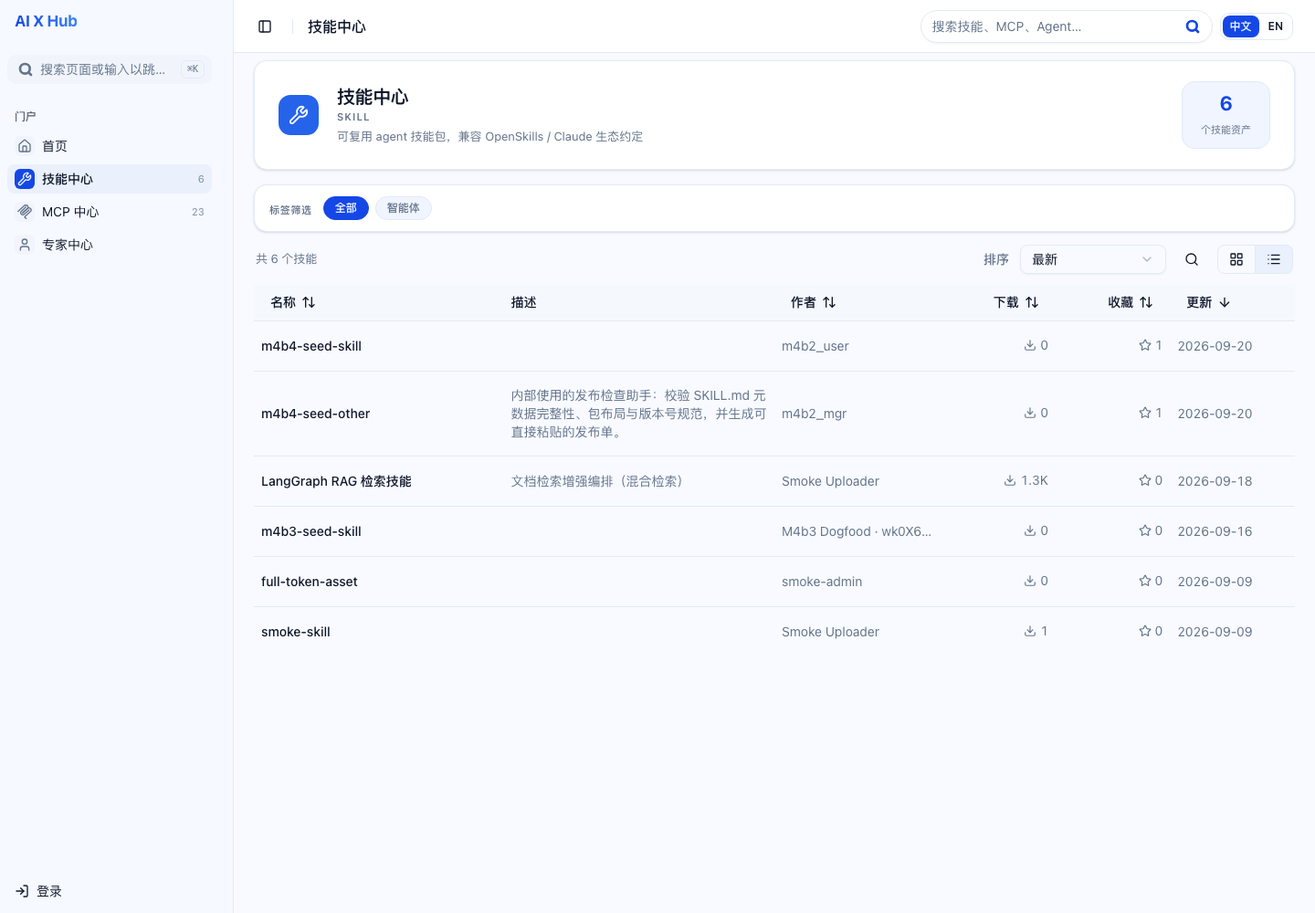
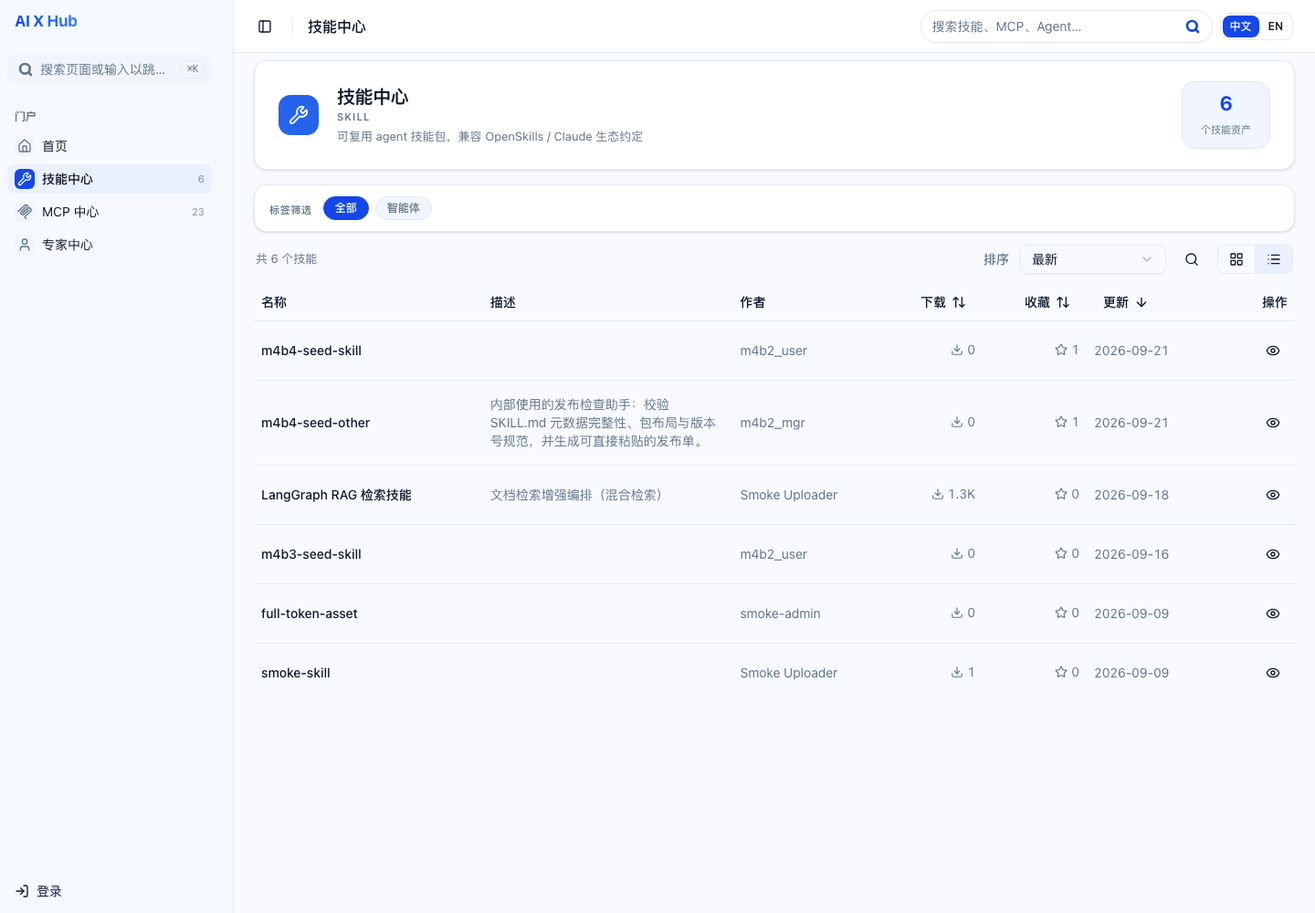
test(smoke): 表格族统一 j5 —— dogfood 断言改写 + 门户笔收口（T11-j）
- m4b4 dogfood 断言改写（1528 → 1546）：
  G20-3 真值口径（恰 1 个进详情锚点 / 0 个 button —— Button asChild 渲染为 <a>）
  G20-4 6 → 7 格（列头加「操作」· 名称列改纯文本断言 · 链接断言挪 tds[6]）
  新增 G20-10（点操作钮 ⇒ 真跳 /assets/:slug）
  G22-3 四档 → 两档 · G22-6 整条删除（同列两态由 G22-6c 承载）· G22-7 五列 → 三列
  G6 锚点改本批前缀（按 /assets/m4b4-seed- 计数 —— 隔离 m4b3 跨批夹具 · F119）
- 首跑 85 PASS / 4 FAIL 如实留痕：F119（跨批夹具污染）+ F120（删 G22-6 的 setup 副作用）
  修完复跑：m4b4 89 PASS / 0 FAIL（89 = 91 − 1 + 1 − 2 逐项对上）
- 零回归：m4a 60 PASS / 0 FAIL / exit 0 · m4b3 39 PASS / 0 FAIL
- 门禁：CI 同序八步全绿（test 559 pass / 1 skip / 0 fail · protocol 27 pass）
- 证据：docs/smoke/2026-09-18-m4b4-personal-b.md → 612 行（活口径 5 处订正 + 新增 §14.15 T11-j 块）+ 11 张截图重拍
- 文档：design v1.16（F-19 + 重评 9.38）· plan v0.45（j5 落地记录 · 代码 9.49）· docs/00 v1.86（§5 M4b-4 行 + §8 修订行）

门户笔（T11-j：j1–j5）全绿收口。

diff --git a/docs/smoke/scripts/m4b4-personal-b-dogfood.ts b/docs/smoke/scripts/m4b4-personal-b-dogfood.ts
@@ -604,6 +604,7 @@ if (want('G10', 'G4', 'G5', 'G6', 'G7', 'G9')) {
       typeColorBlocks: number;
       chips: string[];
       hrefs: string[];
+      ownRows: number;
     }>(
       await evalJs(`(() => {
       const c = ${CONTENT};
@@ -617,6 +618,12 @@ if (want('G10', 'G4', 'G5', 'G6', 'G7', 'G9')) {
           .filter((s) => (s.getAttribute('class') ?? '').includes('rounded-full'))
           .map((s) => s.innerText.trim()),
         hrefs: [...c.querySelectorAll('tbody tr a[href^="/assets/"]')].map((a) => a.getAttribute('href')),
+        /** 本批夹具行数（T11-j j5 · F119）：按行内操作列 href 前缀锚定 —— 不按全表行数断言（跨批夹具共存时必假红） */
+        ownRows: [...c.querySelectorAll('tbody tr')].filter((tr) =>
+          (tr.querySelector('a[href^="/assets/"]')?.getAttribute('href') ?? '').startsWith(
+            '/assets/m4b4-seed-',
+          ),
+        ).length,
       });
     })()`),
     );
@@ -626,12 +633,12 @@ if (want('G10', 'G4', 'G5', 'G6', 'G7', 'G9')) {
       snap?.heads.join(',') ?? 'n/a',
     );
     ok(
-      'G6 三态各一行（ACTIVE/HIDDEN/ARCHIVED）',
-      snap?.rows === 3 &&
+      'G6 本批三态各一行（ACTIVE/HIDDEN/ARCHIVED · 按本批 `m4b4-seed-` 前缀锚定）',
+      snap?.ownRows === 3 &&
         snap.body.includes('活跃') &&
         snap.body.includes('已隐藏') &&
         snap.body.includes('已归档'),
-      `rows=${snap?.rows ?? 'n/a'}`,
+      `ownRows=${snap?.ownRows ?? 'n/a'} · 全表 rows=${snap?.rows ?? 'n/a'}`,
     );
     ok(
       'G6 类型列无色（反证：无 bg-type-* 色块）',
@@ -993,12 +1000,16 @@ if (want('G20')) {
     const rows = [...document.querySelectorAll('[data-asset-row]')];
     let rowButtons = 0;
     for (const r of rows) rowButtons += r.querySelectorAll('button').length;
+    /** 行内进详情锚点数（T11-j j5：操作列 = 真链接；Button asChild 渲染为 a 而非 button） */
+    let rowAnchors = 0;
+    for (const r of rows) rowAnchors += r.querySelectorAll('a[href^="/assets/"]').length;
     return JSON.stringify({
       toggleCount: btns.length,
       on: btns.filter((b) => b.getAttribute('data-state') === 'on').map((b) => b.getAttribute('aria-label')),
       grid: document.querySelector('div.grid.grid-cols-4') !== null,
       rows: rows.length,
       rowButtons,
+      rowAnchors,
       rowHeight: rows[0] ? Math.round(rows[0].getBoundingClientRect().height) : null,
       pagination: document.querySelector('nav[aria-label="pagination"]') !== null,
       url: location.pathname + location.search,
@@ -1010,6 +1021,7 @@ if (want('G20')) {
       grid: boolean;
       rows: number;
       rowButtons: number;
+      rowAnchors: number;
       rowHeight: number | null;
       pagination: boolean;
       url: string;
@@ -1038,31 +1050,34 @@ if (want('G20')) {
     await sleep(1600);
     const s2 = await viewState();
     ok(
-      'G20-3 列表形态：20 行（= limit）· 行高 ≥55（单行描述 55；描述最多 3 行时更高）· 行内 **0 button**（下载/收藏纯展示口径不破）',
+      'G20-3 列表形态：20 行（= limit）· 行高 ≥55 · 行内**恰 1 个进详情入口**（`a[href^="/assets/"]`）且 **0 个 `button`**（下载/收藏纯展示口径不破 —— T11-j 起进详情入口 = 操作列真链接）',
       s2?.on.length === 1 &&
         s2.on[0] === '列表视图' &&
         !s2.grid &&
         s2.rows === 20 &&
         (s2.rowHeight ?? 0) >= 55 &&
+        s2.rowAnchors === 20 &&
         s2.rowButtons === 0,
       JSON.stringify(s2),
     );
     ok(
-      'G20-4 表头 **6 列**（名称/描述/作者/下载/收藏/**更新**）+ 行内六格字段齐（名称链接 · 描述 · 作者 · 两枚 stat · 更新时间 `YYYY-MM-DD`）',
+      'G20-4 表头 **7 列**（名称/描述/作者/下载/收藏/更新/**操作**）+ 字段齐（**名称纯文本** · 描述 · 作者 · 两枚 stat · `YYYY-MM-DD` · 末格真链接）',
       (await evalJs(`(() => {
       const heads = [...document.querySelectorAll('thead th')].map((h) => h.innerText.trim()).join('|');
       const row = document.querySelector('[data-asset-row]');
       if (!row) return false;
       const tds = [...row.querySelectorAll('td')];
-      if (tds.length !== 6) return false;
+      if (tds.length !== 7) return false;
       return (
-        heads === '名称|描述|作者|下载|收藏|更新' &&
-        tds[0].querySelector('a[href^="/assets/"]') !== null &&
+        heads === '名称|描述|作者|下载|收藏|更新|操作' &&
+        (tds[0].innerText || '').length > 0 &&
+        tds[0].querySelector('a') === null &&
         (tds[1].innerText || '').length > 0 &&
         (tds[2].innerText || '').includes('m4b2_mgr') &&
         tds[3].querySelector('span.tabular-nums') !== null &&
         tds[4].querySelector('span.tabular-nums') !== null &&
-        /^\\d{4}-\\d{2}-\\d{2}$/.test((tds[5].innerText || '').trim())
+        /^\\d{4}-\\d{2}-\\d{2}$/.test((tds[5].innerText || '').trim()) &&
+        tds[6].querySelector('a[href^="/assets/"]') !== null
       );
     })()`)) === true,
     );
@@ -1131,6 +1146,22 @@ if (want('G20')) {
       JSON.stringify(s5),
     );
     await shot('20-skills-list-view-anon');
+
+    // G20-10 操作列真链接（T11-j j5 新增）：点 ⇒ 真跳 `/assets/:slug`（真指针路径）
+    const opHref = (await evalJs(`(() => {
+    const a = document.querySelector('[data-asset-row] a[href^="/assets/"]');
+    if (!a) return null;
+    const href = a.getAttribute('href');
+    a.click();
+    return href;
+  })()`)) as string | null;
+    await sleep(1800);
+    const opPath = (await evalJs('location.pathname + location.search')) as string;
+    ok(
+      'G20-10 操作列 = **真链接**：点行内操作钮 ⇒ `pathname` = `/assets/:slug`（列表 ↔ 详情零中间态 · D6）',
+      typeof opHref === 'string' && opHref.startsWith('/assets/') && opPath.startsWith('/assets/'),
+      `href=${opHref} → pathname=${opPath}`,
+    );
   }
 }
 
@@ -1354,11 +1385,10 @@ if (want('G22')) {
     );
 
     // G22-3 四档逐档：Select 显示 + URL 写入 + 列表序与接口**逐项一致**
+    // T11-j j3 收敛（D0-8）：`名称` / `作者` 两档下线 ⇒ 由四档降为**两档**（白名单 = `SORT_OPTIONS`）
     for (const [label, key] of [
       ['下载量', 'downloads'],
       ['星标数', 'stars'],
-      ['名称', 'name'],
-      ['作者', 'author'],
     ] as const) {
       const picked = await selectSort(label);
       const u = await curUrl();
@@ -1396,25 +1426,15 @@ if (want('G22')) {
     );
     await shot('25-sort-bogus-fallback');
 
-    // G22-6 列头两态（切列表视图）：同列切换 asc → desc
-    await nav(`${APP}/skills?sort=name&dir=asc`, 3000);
-    await evalJs(CLICK_VIEW('列表视图'));
-    await sleep(1600);
-    const ascState = (await evalJs(HEAD_SORT('名称'))) as string;
-    await evalJs(CLICK_HEAD('名称'));
-    await sleep(1900);
-    const descState = (await evalJs(HEAD_SORT('名称'))) as string;
-    const descUrl = await curUrl();
-    ok(
-      'G22-6 列头两态：`?dir=asc` ⇒ 名称列 `aria-sort=ascending`；**点同列** ⇒ `descending` + URL `dir=desc`',
-      ascState === 'ascending' &&
-        descState === 'descending' &&
-        descUrl === '/skills?sort=name&dir=desc',
-      `${ascState} → ${descState} · ${descUrl}`,
-    );
-    await shot('26-sort-header-desc');
+    // ⚠ 原 G22-6（名称列两态）随 T11-j j3 **整条删除** —— 该档已下线；
+    //    同列反向的两态语义由 **G22-6c**（更新列 desc→asc→desc）完整承载 ⇒ 覆盖不降（design §7.1 第 6 项）。
+    //    「异列首点 desc」由 G22-6b 承载。原截图 `26-sort-header-desc` 不再产出（证据件已同步）。
 
     // G22-6b 点异列 ⇒ 首点 `desc`（F84 订正口径）
+    // ⚠ 前置：切到**列表视图**（原由 G22-6 的导航顺带完成；该条随 j3 删除后本处自补 —— 否则无 thead 可比）
+    await nav(`${APP}/skills`, 3000);
+    await evalJs(CLICK_VIEW('列表视图'));
+    await sleep(1600);
     await evalJs(CLICK_HEAD('下载'));
     await sleep(1900);
     const dlState = (await evalJs(HEAD_SORT('下载'))) as string;
@@ -1429,17 +1449,15 @@ if (want('G22')) {
       `${dlUrl} · ${dlState}`,
     );
 
-    // G22-7 描述列不可点（五列可点 = 名称/作者/下载/收藏/更新）
+    // G22-7 列头可点（T11-j j3 起三列 = 下载/收藏/更新；描述 · 名称 · 作者不可点）
     const thMap = (await evalJs(
       `JSON.stringify([...document.querySelectorAll('th')].map((x) => ((x.textContent || '').trim() + ':' + (x.querySelector('button') ? 'btn' : 'text'))))`,
     )) as string;
     ok(
-      'G22-7 列头可点 = 名称 / 作者 / 下载 / 收藏 / **更新** 五列（**描述列不可点**）',
-      thMap.includes('描述:text') &&
-        !thMap.includes('描述:btn') &&
-        ['名称:btn', '作者:btn', '下载:btn', '收藏:btn', '更新:btn'].every((s) =>
-          thMap.includes(s),
-        ),
+      'G22-7 列头可点 = 下载 / 收藏 / **更新** 三列（**描述 · 名称 · 作者**三列不可点 —— T11-j j3 档收敛）',
+      ['描述:text', '名称:text', '作者:text'].every((s) => thMap.includes(s)) &&
+        ['描述:btn', '名称:btn', '作者:btn'].every((s) => !thMap.includes(s)) &&
+        ['下载:btn', '收藏:btn', '更新:btn'].every((s) => thMap.includes(s)),
       thMap,
     );
 

diff --git a/docs/designs/2026-09-21-table-family-alignment-design.md b/docs/designs/2026-09-21-table-family-alignment-design.md
@@ -1,11 +1,11 @@
 # 表格族统一规格与统一件契约 —— 跨批设计
 
 > Date: 2026-09-21
+> Updated: 2026-09-21（**v1.16：`j5` 门户笔收口** —— ① 断言改写实测：`m4b4` **89 PASS / 0 FAIL** · `m4a` **60/0** 零回归 · `m4b3` **39/0** ② 计数实测回填（`G20 ×11` · `G22 ×11` · **89 = 91 − 1 + 1 − 2** 逐项对上）③ **F-19**：`m4b4` `G6` 按**全表行数**断言 ⇒ 被 `m4b3` **跨批夹具**污染（真值 5）⇒ 改**本批前缀锚定**（`m4b4-seed-`）④ §8 脚本行数实测 **1546** ⑤ 重评 **9.38**（7 维 9.53 − 0.15）⇒ **门户笔（T11-j）设计侧收口**）
 > Updated: 2026-09-21（**v1.15：`j4` 索引迁移落地回填** —— ① schema **+3 部分索引** · 生成 **`0013_good_wolverine.sql`** · `\d asset` 实测 **6 条** · 二次 migrate 幂等 ② **迁移前实测**（20 万行 · 残留 0）：三档 **8.666/7.944/9.013 → 0.020/0.030/0.030 ms**（≈265–433×）· **B5 闭合**（`status+type` → 0.016 ms 前缀命中）· **B3 回填**（owner+ALL **不受益**）· 建索引 **93.1 ms** ③ 三条新发现：**F-16**（实验须自证数据入表 —— int4 溢出致空表假象）· **F-17**（小表 `Seq Scan` 是自由选择 ⇒ 断言改「关 seqscan 反证」）· **F-18**（`j3` 连带陈旧引用）④ 重评 **9.35**（7 维 9.50 − 0.15））
 > Updated: 2026-09-21（**v1.14：`j3` 排序档收敛 5 → 3 落地回填** —— ① 服务端三处收敛（白名单 / 固有方向 / `sortOrderBy` 删两 case ⇒ **两条相关子查询消失**）· 前端 `SORT_OPTIONS` + `SORT_LABEL_KEYS` 同步 · i18n **净零**（**347 键** 实测、差集 0）② 测试 **动 4 用例** + **F-15**（`assets.test.ts:485` 清单 **7 → 4** —— 设计清单外的活口径，靠 grep「五档」捞出）③ 实测：三档序 / `?sort=name` 回落 / `dir` 两态 / **CI 同序七步全绿**（`test` **559 pass · 0 fail**，562 → 559 = −3 与被删用例对上）④ 重评 **9.33**（7 维 9.48 − 0.15））
-> Updated: 2026-09-21（**v1.13：`j2` 门户 preset 收敛落地后回填 + 三条新发现** —— ① 门户 preset 实测 **286 → 172 行**，`AssetListRow`/`AssetListLoading`/`COLUMN_SORT`/`DEFAULT_DIR`/`SortColumn` **退役（全仓残留 0）** ② 运行期探针 **10 PASS / 0 FAIL**（7 列 · 表头无底纹 · `table-fixed` 名称列 **22.0%** · 行内 1 锚点/0 button · 默认档 ⇒ 更新列 `descending` · 点下载列 ⇒ `?sort=downloads&dir=desc`）③ **F-12** `rowProps` 类型不放行 `data-*`（补口）· **F-13** `G20-3` 原拟 `rowButtons === 1` 与真值不符（`asChild` ⇒ `<a>`）⇒ 订正 · **F-14** 载态取样不能用慢网（改 CDP `Fetch` 拦 API）④ 重评 **9.32**（7 维 9.47 − 0.15））
-> 更早版本（**v1.0–v1.11**）摘要见 **§15 修订记录** —— 头部只留最近 3 条（2026-09-21 头部卫生 · 用户拍板）
-> Status: **✅ 定稿 + 实现中（2026-09-21 · v1.15）** —— 拍板全封（§1.4 + §5 裁定汇总）+ **六轮换靶审计与两轮 grilling 全部闭合**（E1–E22 · F-1–F-18 · Q1–Q10 见 §13）；8 维自检 **9.35**（9.29 自评【撤回】 → 9.19 → 9.14 → 9.05 → 9.14 → 9.22 → 9.18 → 9.22 → 9.31 → 9.28 v1.11 → 9.31 v1.12 → 9.32 v1.13 → 9.33 v1.14 → **9.35 v1.15**）见 §13；**本文档即实现依据**｜**无待拍项、无未决项**（D0-1…D0-8 · D1–D7 · Q1–Q10 全裁定）｜任务清单已落 **M4b-4 plan `T11-j` / `T11-k`**（plan **v0.41** · §12 表末行）｜**实现进度**：`j1` ✅（统一件 **416** 行 · 代码 18 维 **9.34** · 已提交 `ce969cb`）· `j2` ✅（门户 preset **286 → 172** 行 · 代码 18 维 **9.48** · 已提交 `0b2d2f2`）· `j3` ✅ `58ff23e`（档收敛 5 → 3 · 代码 18 维 **9.47**）· `j4` ✅（+3 部分索引 · `\d asset` **6 条** · 代码 18 维 **9.53**）· `j5` ⬜
+> 更早版本（**v1.0–v1.12**）摘要见 **§15 修订记录** —— 头部只留最近 3 条（2026-09-21 头部卫生 · 用户拍板）
+> Status: **✅ 定稿 + 门户笔已收口（2026-09-21 · v1.16）** —— 拍板全封（§1.4 + §5 裁定汇总）+ **六轮换靶审计与两轮 grilling 全部闭合**（E1–E22 · F-1–F-19 · Q1–Q10 见 §13）；8 维自检 **9.38**（9.29 自评【撤回】 → 9.19 → 9.14 → 9.05 → 9.14 → 9.22 → 9.18 → 9.22 → 9.31 → 9.28 v1.11 → 9.31 v1.12 → 9.32 v1.13 → 9.33 v1.14 → 9.35 v1.15 → **9.38 v1.16**）见 §13；**本文档即实现依据**｜**无待拍项、无未决项**（D0-1…D0-8 · D1–D7 · Q1–Q10 全裁定）｜任务清单已落 **M4b-4 plan `T11-j` / `T11-k`**（plan **v0.41** · §12 表末行）｜**实现进度**：`j1` ✅（统一件 **416** 行 · 代码 18 维 **9.34** · 已提交 `ce969cb`）· `j2` ✅（门户 preset **286 → 172** 行 · 代码 18 维 **9.48** · 已提交 `0b2d2f2`）· `j3` ✅ `58ff23e`（档收敛 5 → 3 · 代码 18 维 **9.47**）· `j4` ✅（+3 部分索引 · `\d asset` **6 条** · 代码 18 维 **9.53**）· `j5` ✅（`m4b4` **89/0** · `m4a` **60/0** · `m4b3` **39/0** · 代码 18 维 **9.49**）⇒ **门户笔全绿**（下一笔 = `T11-k` 控制台笔）
 > Scope: **跨批**表格族对齐轮（**两笔**，D0-2）—— **门户笔**：统一 `DataTable` 一件（迁 `ui/`）+ 门户 preset 收敛 + 排序档收敛 + 1 次迁移（3 条部分索引）；**控制台笔**：「我的资产」排序头 + 列开关 · 存量两页表头统一；**不含**第 3 套（工作台内联小表，仅登记）
 > 引用链：本文档 → 主 design `2026-09-10-m4b-admin-console-and-auth-design.md`（§6.3 复用边界 · §10.1 表格密度 40）→ 规范 `00` §5/§7（文档体系与门禁）· 视觉真值 SSOT = M4a design §4.4（引用不复制）
 > 批件关系：本文档是**跨批件**（覆盖 M4b-1 落地的 `DataTable` · M4b-3 的密度口径 · M4b-4 的门户 `AssetList`）；**已收口批 design 不追改**，差异一律在本件登记（见 §7.2）
@@ -618,9 +618,12 @@ onRowSelectionChange?: (next: Record<string, boolean>) => void;
 | 9 | `m4b3-personal-a-dogfood`（控制台三页） | **新增 3 项覆盖 · 编号定量（v1.8 · F-7 闭合）= `G16`–`G18`**（实测该文件现有编号空间 = **`G1–G15`** ⇒ 顺延）：**`G16`** 「我的资产」列头 `aria-sort` 两态 · **`G17`** URL `?sort=` / `?dir=` 同步 + 列表序与 `GET /api/me/assets` 逐项一致 · **`G18`** 列开关（隐藏「更新」⇒ 列数 −1 · **保护列关不掉**） | 控制台排序 / 列开关均为**本轮新面**（D2=② / D0-7）⇒ 必须新覆盖 |
 | 10 | 同上 `G5`（操作列表头断言） | **断言文本不改**（实测 `sr-only` 的 `innerText` 同样读到「操作」）· **必须重跑** | D6b=② 把表头由空白改为可见 ⇒ 断言无需变，但**证据要重拍** |
 | 11 | 证据 `docs/smoke/` 中 m4b3 相关件 + 截图 | **重拍**（`Submissions` / `Tokens` 表头空白 → 「操作」；「我的资产」多出排序钮与列开关入口） | 观感变更必须留新图 |
+| 13 | `m4b4-personal-b-dogfood` **`G6`（跨批夹具污染 · v1.16 · F-19）** | **断言锚点改本批前缀**：行数由**全表** `rows === 3` 改为**本批** `ownRows === 3`（按行内操作列 `href` 前缀 `/assets/m4b4-seed-` 计数） | `m4b3` 批的 2 条 ACTIVE 资产同挂 `m4b2_user` 名下（`m4b3-seed-skill` / `-mcp`）⇒ 全表行数恒 **5** ⇒ 假红（本仓纪律：**测试只依赖自己造的数据**） |
 | 12 | `m4b3-personal-a-dogfood` **`G6`（判据缺陷 · v1.12 · F-11）** | **判据订正**（**不删不减**）：`rowKey()` 无 `start` 时返回 **`null`**（原返回**占位符 `'—'`**）⇒ 两个 filter **只比对有身份的行** | 探针原把**占位符当身份** ⇒ 与「有效行无 `start` 显示 `—`」相撞 ⇒ **恒判泄漏**（实库双证：已吊销无 `start` **2** 行 × 有效无 `start` **4** 行）· **净判据「页面行数 == 有效行数」不动** ⇒ **覆盖不降** |
 
 **§7.1 汇总（v1.8）**：`G20` **3 改 1 增**（新增 = `G20-10`）· `G22` **3 改 1 删**（v1.2 记「2 改 1 删」**偏低** —— 漏 `G22-7`，见 E9）· **控制台新增覆盖 3 项 = `G16`–`G18`**（v1.8 定量 · 原为 F-7 未定项）· `G5` **仅重跑**（不改文本）· **`m4b3` `G6` 判据订正 1 处**（第 12 项 · **v1.12 · F-11**）· 计数类（`G22 ×14` 等）**落地后实测回填**。
+
+**§7.1 汇总 · 落地实测（v1.16 · `j5` 回填）**：`G20` **×11**（原 ×10 + `G20-10`；`G20-3`/`G20-4` 按真值改写）· `G22` **×11**（原 ×14 —— **−G22-6** 整条删 · **G22-3 四档→两档 −2**）· 脚本合计 **89 PASS / 0 FAIL**（**89 = 91 − 1 + 1 − 2** 逐项对上）· `m4a-dogfood` **60/0** 零回归 · `m4b3` **39/0**（`j1` 轮）· **另增第 13 项**：`m4b4` `G6` 改**本批前缀锚定**（`m4b4-seed-` —— 隔离 `m4b3` 跨批夹具，见 **F-19**）。
 
 ### 7.2 文档影响清单
 
@@ -659,7 +662,7 @@ onRowSelectionChange?: (next: Record<string, boolean>) => void;
 | 改造 | `pages/Assets.tsx` | import 路径 + **`sorting`** + **列开关**（D2=② / D0-7） | 273 |
 | 改造 | `pages/Submissions.tsx` · `pages/Tokens.tsx` | import 路径 + **`rowActionsHeader`**（D6b=② · 复用既有 i18n 键 ⇒ 零新增键） | 289 / 536 |
 | 改造 | `i18n/zh.ts` · `en.ts` | +2 键 | — |
-| 改造 | `docs/smoke/scripts/m4b4-personal-b-dogfood.ts` | 3 改 1 增（§7.1） | 1528 |
+| 改造 | `docs/smoke/scripts/m4b4-personal-b-dogfood.ts` | 3 改 1 增 + **`G6` 锚点改本批前缀**（§7.1 第 13 项 · F-19） | **1546**（**v1.16 实测**） |
 | 改造（档收敛） | `apps/server/src/assets/service.ts` | `ASSET_SORT_VALUES` 5 → 3 · `ASSET_SORT_DEFAULT_DIR` / `sortOrderBy` 删 2 档（**两条相关子查询消失**） | **317 → 312**（**v1.14 实测**） |
 | 改造（档收敛） | `apps/server/src/assets/service.test.ts` | 白名单 / 回落 / 顺序断言按三档重算 —— **动 4 个用例**（`:280` name 档 **删** · `:291` author 档 **删** · `:301` 内的 `:306` name **换档**（`:319` downloads asc 半保留）· `:341` 两档零 join 循环 **整条作废**）+ **保留 4 个用例**（`:254` 缺省 · `:260` downloads · `:270` stars · `:330` 静默回落）（**v1.9 · F-9 定量**，原文写「待核」· **v1.11 · E20 订正计数**：原记「6 处」与自身枚举对不上）· **v1.14 `j3` 落地**：`:306` 换档实取 **`downloads`**（`desc`+`asc` 双向）· **F-15**：`http/assets.test.ts:485` 白名单清单 **7 → 4**（同批） | **355 → 324** |
 | 改造（档收敛） | `components/market/sortOptions.ts` · `i18n/{zh,en}.ts` | `SORT_OPTIONS` 5 → 3 · `SORT_LABEL_KEYS` −2 键 · i18n −2 键 | — |
@@ -865,6 +868,7 @@ onRowSelectionChange?: (next: Record<string, boolean>) => void;
 | **F-16** | ✅ **已沉淀**（v1.15） | §1.6 | **实验必须先自证「数据真进了表」**：`j4` 首跑 `INSERT` 因 `(g * 104729)` **int4 溢出**失败（`ERROR: integer out of range`），而 psql 默认**继续往下跑** ⇒ 表空、全部 EXPLAIN 给出 **0.0x ms + `actual rows=0`** 的**假象**（若不复核就会把空表数字写进文档） | 处置：脚本加 `\set ON_ERROR_STOP on` + `g::bigint` 转换；**读数前先看 `INSERT 0 200000` 与 `actual rows>0`** —— 口径写入本节 |
 | **F-17** | ✅ **已订正**（v1.15） | §1.6 | **断言口径在小表上不可满足**：`j4` 断言②原写「`EXPLAIN` 三档查询命中部分索引」，但真库仅 **29 行** ⇒ 规划器**正确地**选 `Seq Scan`（0.044–0.053 ms）⇒ 照原口径验**必红** | 订正为**两段式**：① 小表用 `SET enable_seqscan=off` **反证索引可用**（实测三档 + 联合谓词均走部分索引：`Index Only Scan` / `Bitmap Index Scan`）② **实际受益**由 20 万行实验证明 |
 | **F-18** | ✅ **已订正**（v1.15） | §1.6 | **`j3` 档收敛的连带陈旧引用**：§1.6「现状无感（正证）」行仍引 `name` 档 **0.139 ms**，而该档已随 `j3` 下线（`j3` 的 grep 扫的是「五档」字样，**扫不到这种只写档名的引用**） | 同批订正：改 `newest` 档 **0.053 ms**（真库 29 资产复测）· **沉淀**：档位收敛的活口径扫描要**连档名一起扫**（`name` / `author` 出现在表格、注释、实测行里）|
+| **F-19** | ✅ **已订正**（v1.16） | §7.1 · §13 | **跨批夹具污染**：`m4b4` 的 `G6` 按**全表行数**断言「三态各一行 = 3」，而 `m4b2_user` 名下另有 `m4b3` 批的 2 条 ACTIVE 资产（`m4b3-seed-skill` / `m4b3-seed-mcp`）⇒ 真值 **5** ⇒ 假红。**发现方式 = `j5` 首跑（85 PASS / 4 FAIL 之一）** | 断言改**本批前缀锚定**（`ownRows` 按 `/assets/m4b4-seed-` 计数）⇒ 与 AGENTS.md「**测试只依赖自己造的数据**」纪律一致；同批登记 |
 | **E14–E16** | ✅ **已闭合**（v1.5） | §12 / §11.2 / §11.3 | **E14** §12 结语仍写「待拍 D1–D6」（与下表全 ✅ 矛盾）· **E15** §11.2 图注「D3 ①」编号歧义（易与小样 ① 混）· **E16** §11.3 框线显示宽度不齐（重建后统一 **94**） | 已订正 |
 | **E1–E8** | ✅ **已闭合**（v1.3） | 全件 | **2026-09-21 换靶独立审计**（拿真码 / 真值打文档）查出 8 条：**E1** 交叉引用指错（`§11` → **§13**）· **E2** i18n en 行号半错 · **E3** props 定值表缺 5 个 prop · **E4** §12 标题陈旧 · **E5** F-4 陈旧 · **E6** 控制台列定义表缺 `hidable` · **E7** 门户 `hidable` 预置无消费者（用户拍「乙」保留 + 显式标注）· **E8** §2.1 措辞 | 全部订正（各条见文中 ✏ 标注） |
 
@@ -1100,6 +1104,24 @@ onRowSelectionChange?: (next: Record<string, boolean>) => void;
 
 📌 **本轮的教训全在「读数之前」**：F-16（表空却给出漂亮的 0.0x ms）· F-17（小表规划器行为被当成索引不可用）· F-18（档名级陈旧引用扫不到）。**沉淀**：**验证类结论必须三问 —— ① 数据真在吗？② 这是规划器的自由选择还是能力边界？③ 扫活口径要扫到「名字」一级，不只扫术语。**
 
+### v1.16 重评（`j5` 门户笔收口后 · **现行**）
+
+| 维度 | v1.15 | v1.16 | 依据 |
+|------|:--:|:--:|------|
+| 完整性 | 9.6 | **9.6** | ＋§7.1 第 13 项 · ＋落地实测汇总（计数逐项对上） |
+| 一致性 | 9.4 | **9.5** | **计数与行为口径全部实测回填**（G20 ×11 / G22 ×11 / 89 = 91−1+1−2）|
+| 清晰度 | 9.4 | **9.4** | — |
+| 可实施性 | 9.6 | **9.6** | `j5` 照本件落地：断言改写**逐条可执行**（首跑 4 条红全为本件未预见项，已登记）|
+| 设计纯粹性 | 9.3 | **9.3** | — |
+| 边界覆盖 | 9.6 | **9.6** | ＋F-19（跨批夹具 —— **非本件契约**的仓级边界）|
+| 实施精度 | 9.7 | **9.7** | 本批 dogfood **89/0** · `m4a` **60/0** · `m4b3` **39/0** · CI 同序八步全绿 · 脚本行数实测 **1546** |
+
+**v1.16 综合（7 维平均）= 9.53** ⇒ **9.38**（扣 0.15 不变 —— **F-1 / F-2** 两条属**下一笔**（控制台笔 / M4b-7）的活口径，仍挂着）。
+
+**自检门槛判定（v1.16）**：**9.38 ≥ 9** ✅ —— **门户笔（T11-j）设计侧收口完成**。
+
+📌 **本轮的教训是「设计写对了、闸门还不够」**：`j5` 首跑 4 条红里，**3 条是删 `G22-6` 的副作用**（那一条顺带做了「切列表视图」前置 —— 设计只写「整条删除」，**没写它的 setup 副作用要补到谁身上**），**1 条是跨批夹具**（F-19）。**沉淀**：**删除一条断言时，必须盘它的「前置动作」与「共享状态」** —— 断言往往不只是断言，还是后续断言的 setup。
+
 ## 14. 引用文件清单
 
 **v1.5 按本仓技能 `design-doc-completeness` 第 6 项补「改动属性」列**（改 / 不改 / 新建 / 零改动）：
@@ -1138,6 +1160,7 @@ onRowSelectionChange?: (next: Record<string, boolean>) => void;
 
 | 版本 | 日期 | 作者 | 变更 |
 |------|------|------|------|
+| v1.16 | 2026-09-21 | sunxuewen-rush | **`T11-j · j5`（门户笔收口）落地回填 —— 门户笔设计侧收口**：① 断言改写实测：`m4b4` **89 PASS / 0 FAIL**（`G20-3` 真值口径 · `G20-4` 7 格 · **新增 `G20-10`** · `G22-3` 两档 · **删 `G22-6`** · `G22-7` 三列 · `G6` 本批锚定）· `m4a` **60/0** 零回归 · `m4b3` **39/0** ② 计数实测回填（`G20 ×11` · `G22 ×11` · 89 = 91−1+1−2 逐项对上）③ **F-19**（`m4b4` `G6` 被 `m4b3` 跨批夹具污染 ⇒ 改本批前缀锚定）④ §8 脚本行数 **1546** ⑤ 重评 **9.38**（7 维 **9.53** − 0.15）。**门户笔（`j1`–`j5`）设计侧完成** —— 控制台笔（`T11-k`）前置（`T11-j` 全绿）已满足。 |
 | v1.15 | 2026-09-21 | sunxuewen-rush | **`T11-j · j4`（索引迁移）落地回填**：① `db/schema/assets.ts` **+3 部分索引**（`idx_asset_newest` / `idx_asset_downloads` / `idx_asset_stars`，谓词 `status='ACTIVE'`）· `idx_asset_status` 保留 ⇒ 净 **+3** ② `drizzle-kit generate` ⇒ **`0013_good_wolverine.sql`**（文件内**恰 3 条 `CREATE INDEX`**）· `db:migrate` 应用 · `\d asset` 实测 **6 条**索引 · 二次 migrate **幂等无新文件** ③ **迁移前对照实测（20 万行独立表 · 残留 0）**：三档 8.666/7.944/9.013 ms → **0.020/0.030/0.030 ms**（≈265–433×）· **B5 闭合**（`status AND type` 6.290 → **0.016 ms**，前缀命中）· **B3 数字回填**（owner+ALL 4.550 → 4.666 ms **不受益**）· `count(*)` **不受益** · 参数化命中 · 建索引合计 **93.1 ms** ④ 新增 **F-16**（实验必须自证数据入表 —— int4 溢出致空表假象）· **F-17**（断言口径订正：小表 `Seq Scan` 是规划器自由选择 ⇒ 改「关 seqscan 反证可用 + 20 万行证受益」）· **F-18**（`j3` 连带陈旧引用：现状行仍引已下线的 `name` 档）⑤ §1.6 三处数字回填 · §8 迁移行实测 ⑥ 重评 **9.35**（7 维 **9.50** − 0.15）。 |
 | v1.14 | 2026-09-21 | sunxuewen-rush | **`T11-j · j3`（排序档收敛 5 → 3）落地回填**：① 服务端 `ASSET_SORT_VALUES` **5 → 3**（`name` / `author` 下线）· 固有方向表 **5 → 3** · `sortOrderBy` **删两 case（两条相关子查询消失）** ② 前端 `SORT_OPTIONS` **5 → 3** · `SORT_LABEL_KEYS` **−2** · i18n **−2 键**（`sortName` / `sortAuthor`）⇒ 与 `j2` 的 **+2**（`colActions` / `actionOpen`）**相抵 = 净零** ⇒ 实测 **347 键 / 12 组**、**双向差集 0** ③ 测试：`service.test.ts` **动 4 用例**（`:306` 换档**实取 `downloads`** · `:341` 整条作废）+ **新增 F-15**：`http/assets.test.ts:485` 白名单清单 **7 → 4** ④ 实测：三档逐档序正确 · `?sort=name` **200 且等价 `newest`**（静默回落不 400）· `dir` 两态绿 · **CI 同序七步全绿**（`test` **559 pass / 1 skip / 0 fail**；562 → 559 = **−3**，与被删 3 个 `it` 逐一对上）⑤ §1.5 补落地行 · §8 两行实测回填（312 / 324）⑥ 重评 **9.33**（7 维 **9.48** − 0.15）。**契约变更**（白名单收缩）⇒ 发版前提（前后端同批）已在 §10 I1 登记。 |
 | v1.13 | 2026-09-21 | sunxuewen-rush | **`T11-j · j2`（门户 preset 收敛）落地回填 + 三条新发现闭合**：① 门户 preset 实测 **286 → 172 行**（列定义 7 列 / 列宽 22·24·14·10·10·12·8 / `density=comfortable` / `loadingVariant=keepHeader` / `tableClassName=table-fixed` / `rowProps` 锚点）；`AssetListRow`·`AssetListLoading`·`COLUMN_SORT`·`DEFAULT_DIR`·`SortColumn` **退役（全仓残留 0）**· `SortKey` 归位 `sortOptions.ts` ② 运行期探针 **10 PASS / 0 FAIL**（7 列 · 表头底纹透明 · `table-fixed` 名称列 **22.0%** · 表头 40 / 行高 65 · 行内 **1 锚点 / 0 button** · 默认档 ⇒ 更新列 `descending` · 点下载列 ⇒ `?sort=downloads&dir=desc` · 载态表头 7 列 + 3 排序钮 + 骨架 5 行 `colSpan=7` · 点 Eye ⇒ `/assets/:slug`）③ **F-12**（`rowProps` 类型不放行 `data-*` ⇒ 补口）· **F-13**（`G20-3` 原拟「`rowButtons === 1`」与真值不符 ⇒ 订正为「1 锚点 + 0 button」）· **F-14**（载态取样不能用慢网 ⇒ 改 CDP `Fetch` 只拦 API）④ §2.2 / §7.1 / §8 / §14 四处实测回填 ⑤ 重评 **9.32**（7 维 **9.47** − 0.15）。**设计侧零行为变更**（补口 + 订正 + 回填）。 |

diff --git a/docs/plans/M4b-4-me-assets-and-console.md b/docs/plans/M4b-4-me-assets-and-console.md
@@ -1,11 +1,11 @@
 # M4b-4 个人面 B：我的资产与工作台 landing —— 批计划
 
 > Date: 2026-09-18
+> Updated: 2026-09-21（**v0.45：`j5` 门户笔收口** —— ① 断言改写（`G20-3` 真值口径 · `G20-4` 7 格 · **+`G20-10`** · `G22-3` 两档 · **删 `G22-6`** · `G22-7` 三列 · `G6` 本批锚定）② 首跑 **85/4** 如实留痕（**F119** 跨批夹具 · **F120** 删除的 setup 副作用）⇒ 修完复跑 **`m4b4` 89/0** · **`m4a` 60/0**（零回归）· `m4b3` **39/0** · **89 = 91 − 1 + 1 − 2** 逐项对上 ③ CI 同序八步全绿（`test` **559 pass / 0 fail**）· 证据件 **611 行** + 11 图 ④ §7.5 **T11-j ✅ 全绿**（门户笔收口）⑤ 依据 = 批 design **v1.16**（8 维 **9.38**））
 > Updated: 2026-09-21（**v0.44：`j4` 索引迁移落地** —— ① schema **+3 部分索引**（`idx_asset_newest`/`idx_asset_downloads`/`idx_asset_stars` · 谓词 `status='ACTIVE'`）· 生成 **`0013_good_wolverine.sql`**（恰 3 条 `CREATE INDEX`）· `\d asset` 实测 **6 条** · 二次 migrate **幂等** · 实验**残留 0** ② **迁移前对照实测**（20 万行 · `INSERT 0 200000` 自证）：三档 **8.666/7.944/9.013 → 0.020/0.030/0.030 ms**（≈265–433×）· **B5 闭合**（`status+type` → **0.016 ms** 前缀命中）· **B3 回填**（owner+ALL **不受益**）· `count(*)` 不受益 · 参数化命中 · 建索引 **93.1 ms** ③ 三条新发现：**F116**（实验须自证数据入表 —— int4 溢出致空表假象）· **F117**（小表 `Seq Scan` 是规划器自由选择 ⇒ 断言改两段式）· **F118**（`j3` 连带陈旧引用 —— 档名级扫描）④ 依据 = 批 design **v1.15**（8 维 **9.35**））
 > Updated: 2026-09-21（**v0.43：`j3` 排序档收敛 5 → 3 落地** —— ① 服务端 `ASSET_SORT_VALUES` / 固有方向 / `sortOrderBy` 三处收敛（**两条相关子查询消失**）· 前端 `SORT_OPTIONS` + `SortKey` + `SORT_LABEL_KEYS` 同步 · i18n **净零**（**347 键** 实测 · 差集 0）② 测试 **动 4 用例**（`:306` 换档实取 `downloads` · `:341` 整条作废）+ **F115**（`assets.test.ts:485` 清单 **7 → 4** —— 设计清单外，grep「五档」捞出）③ 实测：三档序 / `?sort=name` **200 且等价 newest** / `dir` 两态 / **CI 同序七步全绿**（`test` **559 pass · 1 skip · 0 fail**；562 → 559 = **−3** 与被删用例对上）④ 依据 = 批 design **v1.14**（8 维 **9.33**））
-> Updated: 2026-09-21（**v0.42：`j2` 门户 preset 收敛落地** —— ① 落地记录：`AssetList` **286 → 172**（门户 preset）· 两消费点改传 `items` · `SortKey` 归位 `sortOptions` · 退役 5 项**残留 0** ② 运行期探针 **10 PASS / 0 FAIL**（7 列 / 表头无底纹 / `table-fixed` 名称列 **22.0%** / 行内 **1 锚点 0 button** / 默认档 ⇒ 更新列 `descending` / 点下载列 ⇒ `?sort=downloads&dir=desc` / 载态 3 排序钮 + 骨架 5 行）③ **F112**（`rowProps` 不放行 `data-*` ⇒ 补口）· **F113**（操作钮断言真值 ⇒ 订正 design §7.1）· **F114**（载态取样改 CDP `Fetch`）④ web 四门禁 exit 0 ⑤ 依据 = 批 design **v1.13**（8 维 **9.32**））
-> 更早版本（**v0.1–v0.41**）摘要见 **§9 修订记录** —— 头部只留最近 3 条（2026-09-21 头部卫生 · 用户拍板）
-> Status: **✅ 全绿（2026-09-18）**（**T1–T16** 全绿 · **T8 作废**；T11 收尾已完成：造数 + G1–G19 **53 PASS / 0 FAIL** + 五门禁 exit 0 + 证据回填；**v0.20 验收期第二笔 T11-e 已实现**（G20/G21 新增 ⇒ **77 PASS / 0 FAIL**）· 文档回写完成 · **已提交推送**（`39d1b21` · `9219069`））；**验收期第三笔 T11-f（资产排序）2026-09-20 全绿落地**（`f1 9.35 · f2 9.46 · f3 9.46 · f4 9.47` · 服务端 `sort`/`dir` 契约变更 · 零迁移）· **T11-g（验证效率）全绿**（代码 18 维 `9.49`）· **验收期第六笔 T11-j（表格族统一 · 门户笔）执行中**（`j1` ✅ 已提交 `ce969cb` · `j2` ✅ `0b2d2f2`（门户 preset **286 → 172** · 代码 18 维 **9.48** · 探针 **10/0**）· `j3` ✅ `58ff23e`（档收敛 **5 → 3** · **净零 347 键**）· `j4` ✅（+3 部分索引 · **6 条**索引实证 · 迁移 **`0013_`** · 20 万行实测 ≈265–433×）· `j5` ⬜）· **三笔已提交推送**（`72e48db` / `434043b` / `ced0d6a`））；其中 **T8 作废**；**执行序 = T15 最先** —— star 能力先行，再消费面）—— 上游批 design 已**定稿**（8 维**以批 design 版本头为准**（现行 **9.69**）；v1.7 原型评审收口）
+> 更早版本（**v0.1–v0.42**）摘要见 **§9 修订记录** —— 头部只留最近 3 条（2026-09-21 头部卫生 · 用户拍板）
+> Status: **✅ 全绿（2026-09-18）**（**T1–T16** 全绿 · **T8 作废**；T11 收尾已完成：造数 + G1–G19 **53 PASS / 0 FAIL** + 五门禁 exit 0 + 证据回填；**v0.20 验收期第二笔 T11-e 已实现**（G20/G21 新增 ⇒ **77 PASS / 0 FAIL**）· 文档回写完成 · **已提交推送**（`39d1b21` · `9219069`））；**验收期第三笔 T11-f（资产排序）2026-09-20 全绿落地**（`f1 9.35 · f2 9.46 · f3 9.46 · f4 9.47` · 服务端 `sort`/`dir` 契约变更 · 零迁移）· **T11-g（验证效率）全绿**（代码 18 维 `9.49`）· **验收期第六笔 T11-j（表格族统一 · 门户笔）执行中**（`j1` ✅ 已提交 `ce969cb` · `j2` ✅ `0b2d2f2`（门户 preset **286 → 172** · 代码 18 维 **9.48** · 探针 **10/0**）· `j3` ✅ `58ff23e`（档收敛 **5 → 3** · **净零 347 键**）· `j4` ✅（+3 部分索引 · **6 条**索引实证 · 迁移 **`0013_`** · 20 万行实测 ≈265–433×）· `j5` ✅（`m4b4` **89/0** · `m4a` **60/0** · `m4b3` **39/0**）⇒ **门户笔（T11-j）全绿收口**；**下一笔 = `T11-k` 控制台笔**）· **三笔已提交推送**（`72e48db` / `434043b` / `ced0d6a`））；其中 **T8 作废**；**执行序 = T15 最先** —— star 能力先行，再消费面）—— 上游批 design 已**定稿**（8 维**以批 design 版本头为准**（现行 **9.69**）；v1.7 原型评审收口）
 > 上游：批 design `docs/designs/2026-09-18-m4b4-personal-b-design.md`（**定稿**）· 主 design
 > `2026-09-10-m4b-admin-console-and-auth-design.md` §2.3 拆批表与批件登记表 · `docs/00` §5 M4b-4 行
 > 依赖顺序：**M4b-1 ✅ / M4b-2 ✅ 已完成**（两批出口五件全绿）⇒ 本批开工条件已满足
@@ -693,6 +693,12 @@ B（侧栏命令面板）
 
 **j5 断言 / 门禁**：① 本批 dogfood 全绿（**数字实测回填**）② `m4a-dogfood` 零回归 ③ 五门禁逐项 exit 0 ④ 证据无占位符 ⑤ `doc-audit` 全 PASS
 
+**落地记录（2026-09-21 · `j5` · **门户笔收口**）**：**断言改写**（`m4b4-personal-b-dogfood.ts` **1528 → 1546**）= `G20-3` 真值口径（**恰 1 个进详情锚点 / 0 个 `button`** —— `Button asChild` 渲染为 `<a>`）· `G20-4` **6 → 7 格**（列头加「操作」· 名称列改**纯文本**断言 · 链接断言挪 `tds[6]`）· **新增 `G20-10`**（点操作钮 ⇒ 真跳 `/assets/:slug`）· `G22-3` **四档 → 两档** · **`G22-6` 整条删除**（同列两态由 `G22-6c` 承载）· `G22-7` **五列 → 三列** · **`G6` 锚点改本批前缀**（**F119**）。
+**首跑 = 85 PASS / 4 FAIL**（4 红全为**本设计未预见项**，如实留痕）：**F119**（`G6` 按全表行数 ⇒ 被 `m4b3` 跨批夹具污染，真值 5）· **F120**（**删 `G22-6` 的 setup 副作用** —— 那一条顺带做了「切列表视图」前置，删除后 `G22-6b`/`G22-7`/`G22-8` 三条**连带假红**）。
+**修完复跑（全量 · 先 seed 复位）**：**`m4b4` 89 PASS / 0 FAIL / 0 CDP 超时 / NO JS ERRORS**（**89 = 91 − 1（删 G22-6）+ 1（新增 G20-10）− 2（G22-3 四档→两档）** 逐项对上）· **`m4a-dogfood` 60 PASS / 0 FAIL / exit 0**（与 T11-i 基线 60/0 逐项一致 ⇒ **零回归**）· `m4b3` **39/0**（`j1` 轮）。
+**门禁** = **CI 同序八步全绿**：`typecheck` / `lint` / `format:check`（276 文件）/ `doc-audit` **66 PASS** / `build` / `db:migrate` / `CI=true test` **559 pass · 1 skip · 0 fail**（`protocol` 另 27 例）。
+**证据**：`docs/smoke/2026-09-18-m4b4-personal-b.md` **→ 611 行**（活口径 5 处订正 + **新增 §14.15 T11-j 块**）· 截图**重拍 11 张**（含列表 7 列两图）· 原 `26-sort-header-desc.png` 不再产出。
+
 ---
 
 ### T11-k · 表格族统一（**控制台笔**）：「我的资产」排序头 + 列开关 + 存量两页表头（**前置 = T11-j 全绿**）
@@ -907,7 +913,7 @@ bun install --frozen-lockfile
 | **T11-i B′**（侧栏搜索改「一体」形态 · 官方 Combobox） | 代码 18 维 / 文档 8 维 | **9.40** / **9.41** | 代码：A **9.38** ×0.40 · B **9.38** ×0.30（**B2 9.2**：列表限高依赖未生成的 nova 简写 · 未做窄屏实跑）· C **9.45** ×0.30（**C5 9.6**：+6 条断言 + 2 条真登录验证；**C3 9.0**：纯 UI 无可观测标记）｜文档 8 维 **9.41**（**边界覆盖 9.2**）。**本笔抓到两个真缺陷**：F101（Base UI 选中回写哨兵值 ⇒ 改「不控 `inputValue` + `key` 重挂载」）· F103（`w-(--anchor-width)` 简写在 TW 4.3.3 不生成 ⇒ 改任意值类）|
 | **T11-i B″**（侧栏搜索定稿：框样触发器 → 官方命令面板 · 同日回退） | 代码 18 维 / 文档 8 维 | **9.48** / **9.45** | 回退干净（件删 2 / 依赖撤 1 / i18n 复回 / notices 回 33 件）· 触发器**照官方站实测配方**（非手搓）· **C6 9.7** 零迁移可回退 · **C8 9.6** 依赖归零无残留 · 两套 dogfood 57/0 · 91/0 |
 | **T11-i B″ 观感收尾**（条目 `→` 前缀 + 触发器图标取色） | 代码 18 维 / 文档 8 维 | **9.55** / **9.60** | 只取**条目前缀箭头**一项（用户拍板「只做 B」）；尺寸 / 色走官方 `CommandItem` 内建规则（零 className 覆盖）· 兜底行不加（搜索语义）· 触发器放大镜 `text-muted-foreground` ⇒ **三处同色实测** · **+3 断言 ⇒ 60/0**（触发器取色 / 条目箭头 / 兜底行无箭头）· 复核发现 **F105**（注释腐化）· **F106**（§4.9 落地记录 5 处行数陈旧，已订正）|
-| **T11-j**（表格族统一 · **门户笔**：统一件 + 门户 preset + 排序档收敛 + 3 条部分索引） | 🔵 **执行中**（`j1` ✅ `ce969cb` · `j2` ✅ `0b2d2f2` · `j3` ✅ `58ff23e` · `j4` ✅ · `j5` ⬜） | `j1` **9.34** · `j2` **9.48** · `j3` **9.47** · `j4` **9.53** | 依据 = 跨批 design **v1.15**（8 维 **9.35**）· 步序 **j1→j5** · 含 **1 次迁移**（`0013_*`）· 零新依赖 · 新建件 1（官方 `checkbox` · **已装 26 行**）· **`j1` 门禁** = 四门禁 **exit 0** + 探针 **30/0** + dogfood 对照（干净 HEAD **38/1** ⇄ 带 `j1` **38/1**）**零回归** ⇒ 已提交 `ce969cb`｜**`j2` 门禁** = 四门禁 **exit 0** + 运行期探针 **10/0** ⇒ 已提交 `0b2d2f2`｜**`j3` 门禁** = CI 同序七步全绿（`test` **559 pass / 0 fail**）⇒ 已提交 `58ff23e`｜**`j4` 门禁** = `\d asset` **6 条** · 二次 migrate 幂等 · 实验**残留 0** · 迁移前对照实测（20 万行 7 行数字）· **待提交**（用户口径：攒到门户收口一起 push）|
+| **T11-j**（表格族统一 · **门户笔**：统一件 + 门户 preset + 排序档收敛 + 3 条部分索引） | ✅ **全绿（门户笔收口 · 2026-09-21）** | `j1` **9.34** · `j2` **9.48** · `j3` **9.47** · `j4` **9.53** · `j5` **9.49** | 依据 = 跨批 design **v1.16**（8 维 **9.38** · 门户笔设计侧收口）· 步序 **j1→j5** · 含 **1 次迁移**（`0013_*`）· 零新依赖 · 新建件 1（官方 `checkbox` · **已装 26 行**）· **`j1` 门禁** = 四门禁 **exit 0** + 探针 **30/0** + dogfood 对照（干净 HEAD **38/1** ⇄ 带 `j1` **38/1**）**零回归** ⇒ 已提交 `ce969cb`｜**`j2` 门禁** = 四门禁 **exit 0** + 运行期探针 **10/0** ⇒ 已提交 `0b2d2f2`｜**`j3` 门禁** = CI 同序七步全绿（`test` **559 pass / 0 fail**）⇒ 已提交 `58ff23e`｜**`j4` 门禁** = `\d asset` **6 条** · 二次 migrate 幂等 · 实验**残留 0** · 迁移前对照实测（20 万行 7 行数字）⇒ 已提交 `583d2aa`｜**`j5` 门禁** = `m4b4` **89/0** · `m4a` **60/0** · `m4b3` **39/0** · CI 同序八步全绿 · 证据回填完成 ⇒ **门户笔全绿**（下一步 = `T11-k` 控制台笔 · 独立一笔）|
 | **T11-k**（表格族统一 · **控制台笔**：「我的资产」排序 + 列开关 + 存量两页表头） | 📋 **已立案（未动工）** | — | **前置 = T11-j 全绿**（D0-2 逐笔可回滚）· 步序 **k1→k2** · 新增断言 **G16–G18** + `G5` 重跑 |
 
 ### 7.6 T12 实现期发现（v0.12 · 明细见批 design §11.9）
@@ -953,8 +959,11 @@ bun install --frozen-lockfile
 
 - **T11-j `j4` 落地（v0.44 · 2026-09-21）**：**F116** —— **实验读数前必须自证「数据真进了表」**：首跑 `INSERT` 因 `(g * 104729)` **int4 溢出**失败（`integer out of range`），而 psql 默认**继续执行后续语句** ⇒ 表空、全部 EXPLAIN 给出 **0.0x ms + `actual rows=0`** 的**假象**（差一步就写进文档）。处置：加 `\set ON_ERROR_STOP on` + `g::bigint` 转换；**读任何数字前先看 `INSERT 0 200000` 与 `actual rows > 0`**。**F117** —— **断言口径在小表上不可满足**：原写「`EXPLAIN` 三档查询命中部分索引」，而真库仅 **29 行** ⇒ 规划器**正确地**选 `Seq Scan`（0.044–0.053 ms）。订正为**两段式**：`SET enable_seqscan=off` **反证可用** + 20 万行证**受益**。**F118** —— **`j3` 连带陈旧引用**：§1.6「现状无感」行仍引 `name` 档 0.139 ms（该档已下线）；`j3` 的活口径扫描只扫了「五档」字样、**扫不到只写档名的引用** ⇒ 沉淀：**档位收敛要连档名一起扫**。
 
+- **T11-j `j5` 落地（v0.45 · 2026-09-21）**：**F119** —— **跨批夹具污染**：`m4b4` 的 `G6` 按**全表行数**断言「三态各一行 = 3」，而 `m4b2_user` 名下另有 `m4b3` 批的 2 条 ACTIVE 资产（`m4b3-seed-skill` / `m4b3-seed-mcp`）⇒ 真值 **5** ⇒ 假红。改**本批前缀锚定**（`ownRows` 按行内操作列 `href` 前缀 `/assets/m4b4-seed-` 计数）⇒ 与 AGENTS.md「**测试只依赖自己造的数据**」一致。**F120** —— **删断言的 setup 副作用**：`G22-6` 整条删除后，`G22-6b` / `G22-7` / `G22-8` **连带假红** —— 被删的那条**顺带做了「切列表视图」前置**（无 `thead` 则列头断言全空）。处置：把前置**显式补进 `G22-6b`**。**纪律沉淀**：**删一条断言前必须盘它的「前置动作」与「共享状态」** —— 断言往往不只是断言，还是后续断言的 setup。
+
 ## 9. 修订记录
 
+| **v0.45** | 2026-09-21 | sunxuewen-rush | **`j5` 门户笔收口落地（零行为决策 · 仅登记）** ① §3 `j5` 补**落地记录**（断言改写 1528 → 1546 · 首跑 85/4 如实留痕 · 修完复跑 **89/0** · `m4a` **60/0** · 证据 611 行 + 11 图）② §7.6 登记 **F119**（`m4b4` `G6` 跨批夹具污染 ⇒ 改本批前缀锚定）· **F120**（删 `G22-6` 的 setup 副作用 ⇒ 前置显式补入 `G22-6b`）③ §7.5 `T11-j` → **✅ 全绿**（`j5` 代码 **9.49**）④ 头部 +本行 ⑤ 依据 = 批 design **v1.16**（8 维 **9.38**）。**实测** = 三套 dogfood（89/0 · 60/0 · 39/0）+ CI 同序八步全绿 |
 | **v0.44** | 2026-09-21 | sunxuewen-rush | **`j4` 索引迁移落地回填（零行为决策 · 仅登记）** ① §3 `j4` 补**落地记录**（schema 142 → 161 · `0013_good_wolverine.sql` 恰 3 条语句 · `\d asset` **6 条** · 二次 migrate 幂等 · 残留 0）+ **迁移前对照实测表**（20 万行 7 行数字：三档 ≈265–433× · B5 命中 · B3/计数不受益 · 建索引 93.1 ms）② §3 `j4` 断言② 同批订正（**F117** 两段式口径）③ §7.6 登记 **F116**（实验须自证数据入表）· **F117**（小表 `Seq Scan` 是自由选择）· **F118**（`j3` 连带陈旧引用 —— 档名级扫描）④ §7.5 `T11-j` 行 → `j4` ✅（代码 **9.53**）⑤ 头部 +本行 ⑥ 依据 = 批 design **v1.15**（8 维 **9.35**）。**实测** = DB 侧全绿 · 无服务端代码变更（仅 schema 索引定义 + 迁移文件）|
 | **v0.43** | 2026-09-21 | sunxuewen-rush | **`j3` 排序档收敛 5 → 3 落地回填（零行为决策 · 仅登记）** ① §3 `j3` 补**落地记录**（服务端三处收敛 · 前端常量 · i18n **净零 347 键** · 测试动 4 用例实取 `downloads`）② §7.6 登记 **F115**（`assets.test.ts:485` 清单 **7 → 4** —— 设计清单外，靠 grep「五档」捞出）③ §3 `j3` 步骤 2 同批订正（换档实取档位）④ §7.5 `T11-j` 行 → `j3` ✅（代码 **9.47**）⑤ 头部 +本行 ⑥ **Status 行两处订正**（j2 分数 `9.49` → **`9.48`** —— 同轮 grep 误判为 T11-g 的分数）⑦ 依据 = 批 design **v1.14**（8 维 **9.33**）。**实测** = CI 同序七步全绿 · `test` **559 pass / 1 skip / 0 fail** |
 | **v0.42** | 2026-09-21 | sunxuewen-rush | **`j2` 门户 preset 收敛落地回填（零行为决策 · 仅登记）** ① §3 `j2` 补**落地记录**（件行数 286→172 / 424→427 / 251→253 / sortOptions +8 / DataTable 416→422 / +2 键 · 退役 5 项**残留 0**）+ 探针 **10/0** 真值 + 门禁 ② §7.6 登记 **F112**（`rowProps` 类型不放行 `data-*` ⇒ 补口）· **F113**（操作钮断言真值 = **1 锚点 / 0 button** ⇒ 订正 design §7.1 —— 防 j5 必红）· **F114**（载态取样改 CDP `Fetch` 拦 API）③ §3 `j2` 断言① 口径同批订正 ④ §7.5 `T11-j` 行 → `j2` ✅（代码 **9.48**）⑤ 头部 +本行 ⑥ 依据 = 批 design **v1.13**（8 维 **9.32**）。**实测** = 运行期探针 **10 PASS / 0 FAIL** · web 四门禁 exit 0 |
